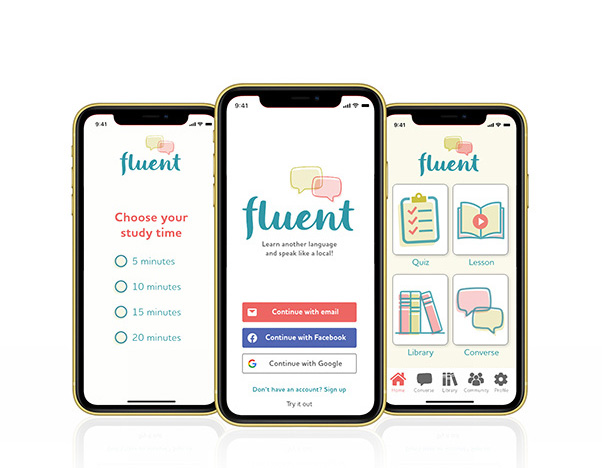
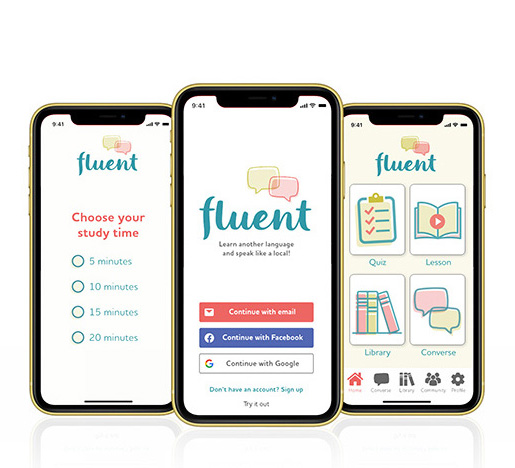
Adjusts Fluent hero image

Changed region(s): [[0.0311, 0.1795, 0.9631, 0.9274], [0.2485, 0.8376, 0.2796, 0.8675]]

diff --git a/css/style.css b/css/style.css
@@ -429,7 +429,8 @@ main {
 }
 
 .hero-photo-wrapper img {
-  width: 400px;
+  padding-right: 10px;
+  width: 300px;
   height: auto;
 }
 
